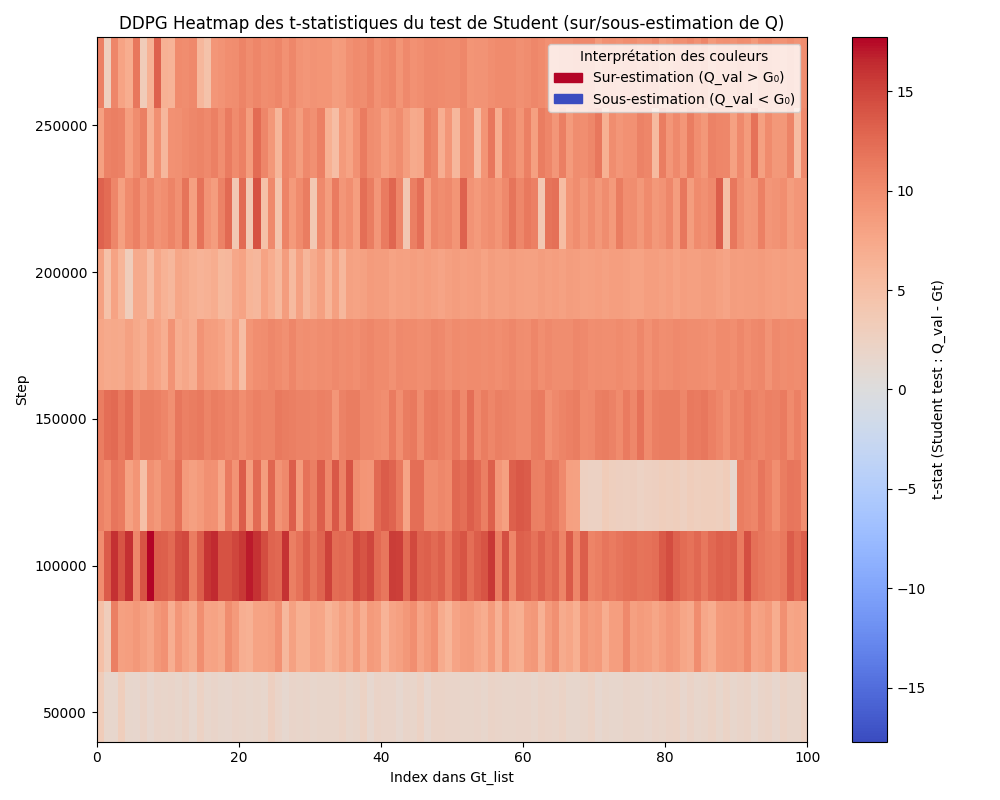
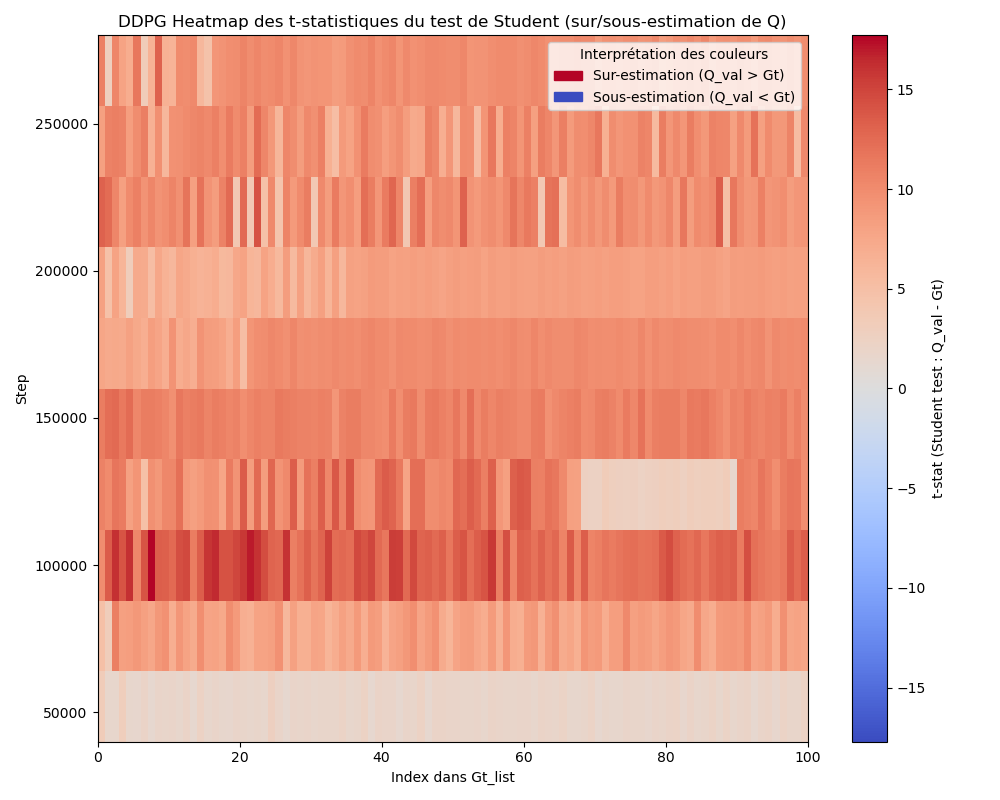
the end

diff --git a/plot_DDPG/heat_map.py b/plot_DDPG/heat_map.py
@@ -75,8 +75,8 @@ im = plt.imshow(
 
 
 # --- Ajout de la légende explicite ---
-red_patch = mpatches.Patch(color=plt.cm.coolwarm(1.0), label="Sur-estimation (Q_val > G₀)")
-blue_patch = mpatches.Patch(color=plt.cm.coolwarm(0.0), label="Sous-estimation (Q_val < G₀)")
+red_patch = mpatches.Patch(color=plt.cm.coolwarm(1.0), label="Sur-estimation (Q_val > Gt)")
+blue_patch = mpatches.Patch(color=plt.cm.coolwarm(0.0), label="Sous-estimation (Q_val < Gt)")
 plt.legend(
     handles=[red_patch, blue_patch],
     loc="upper right",
